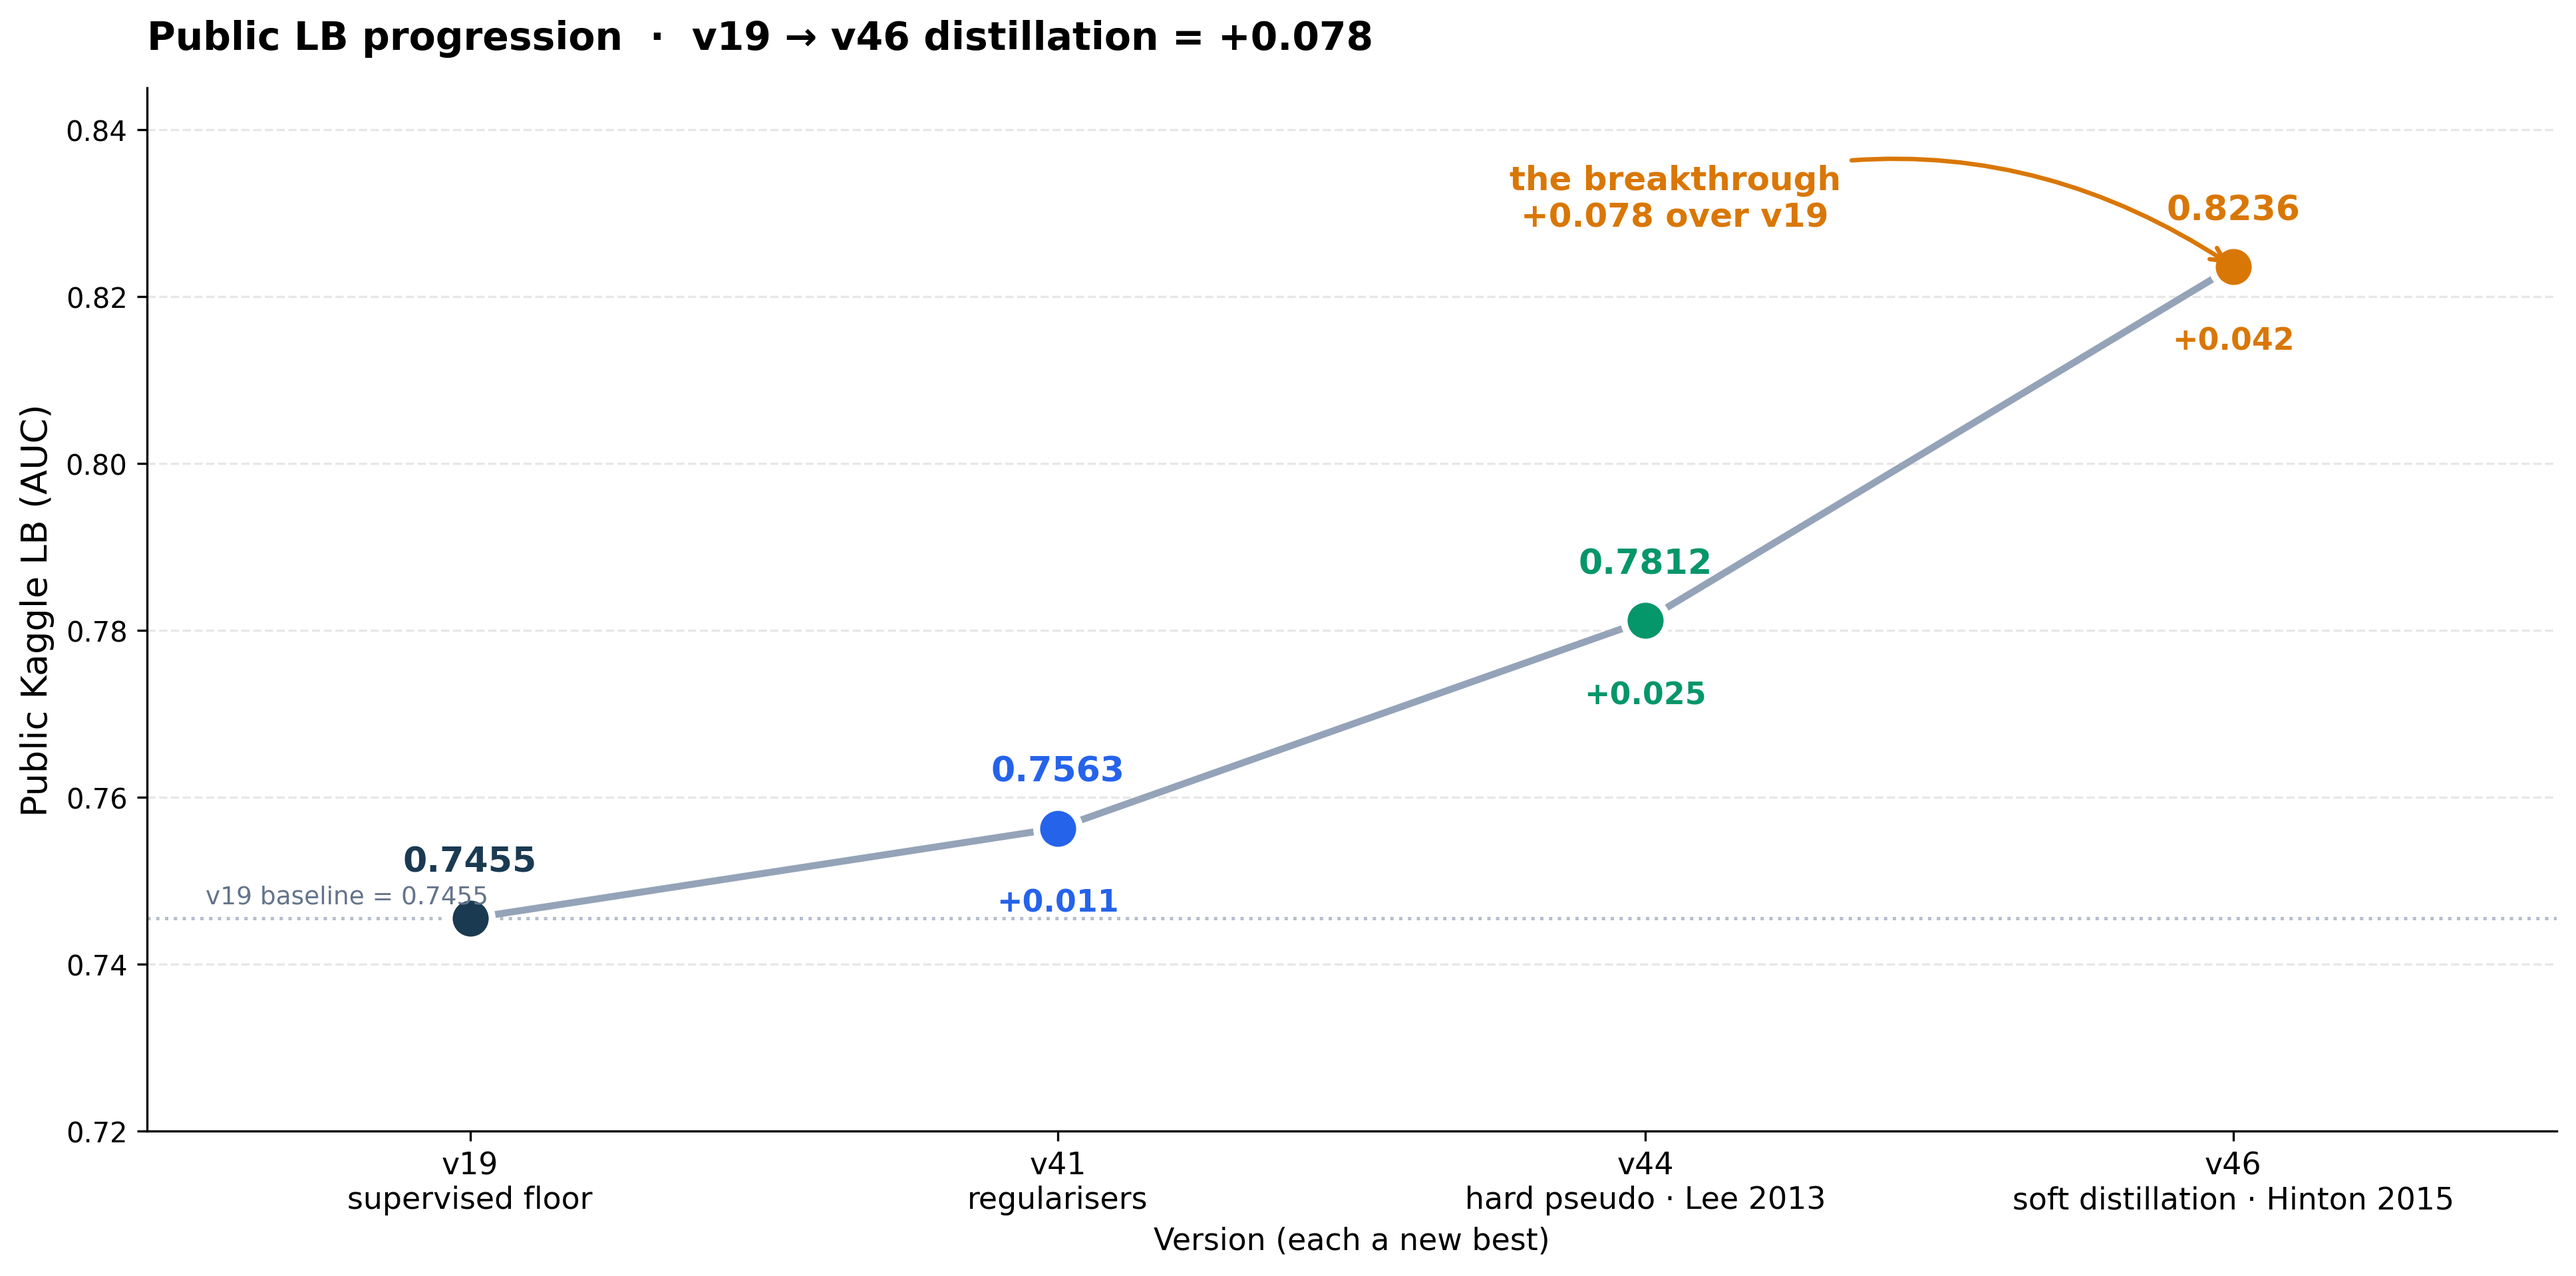
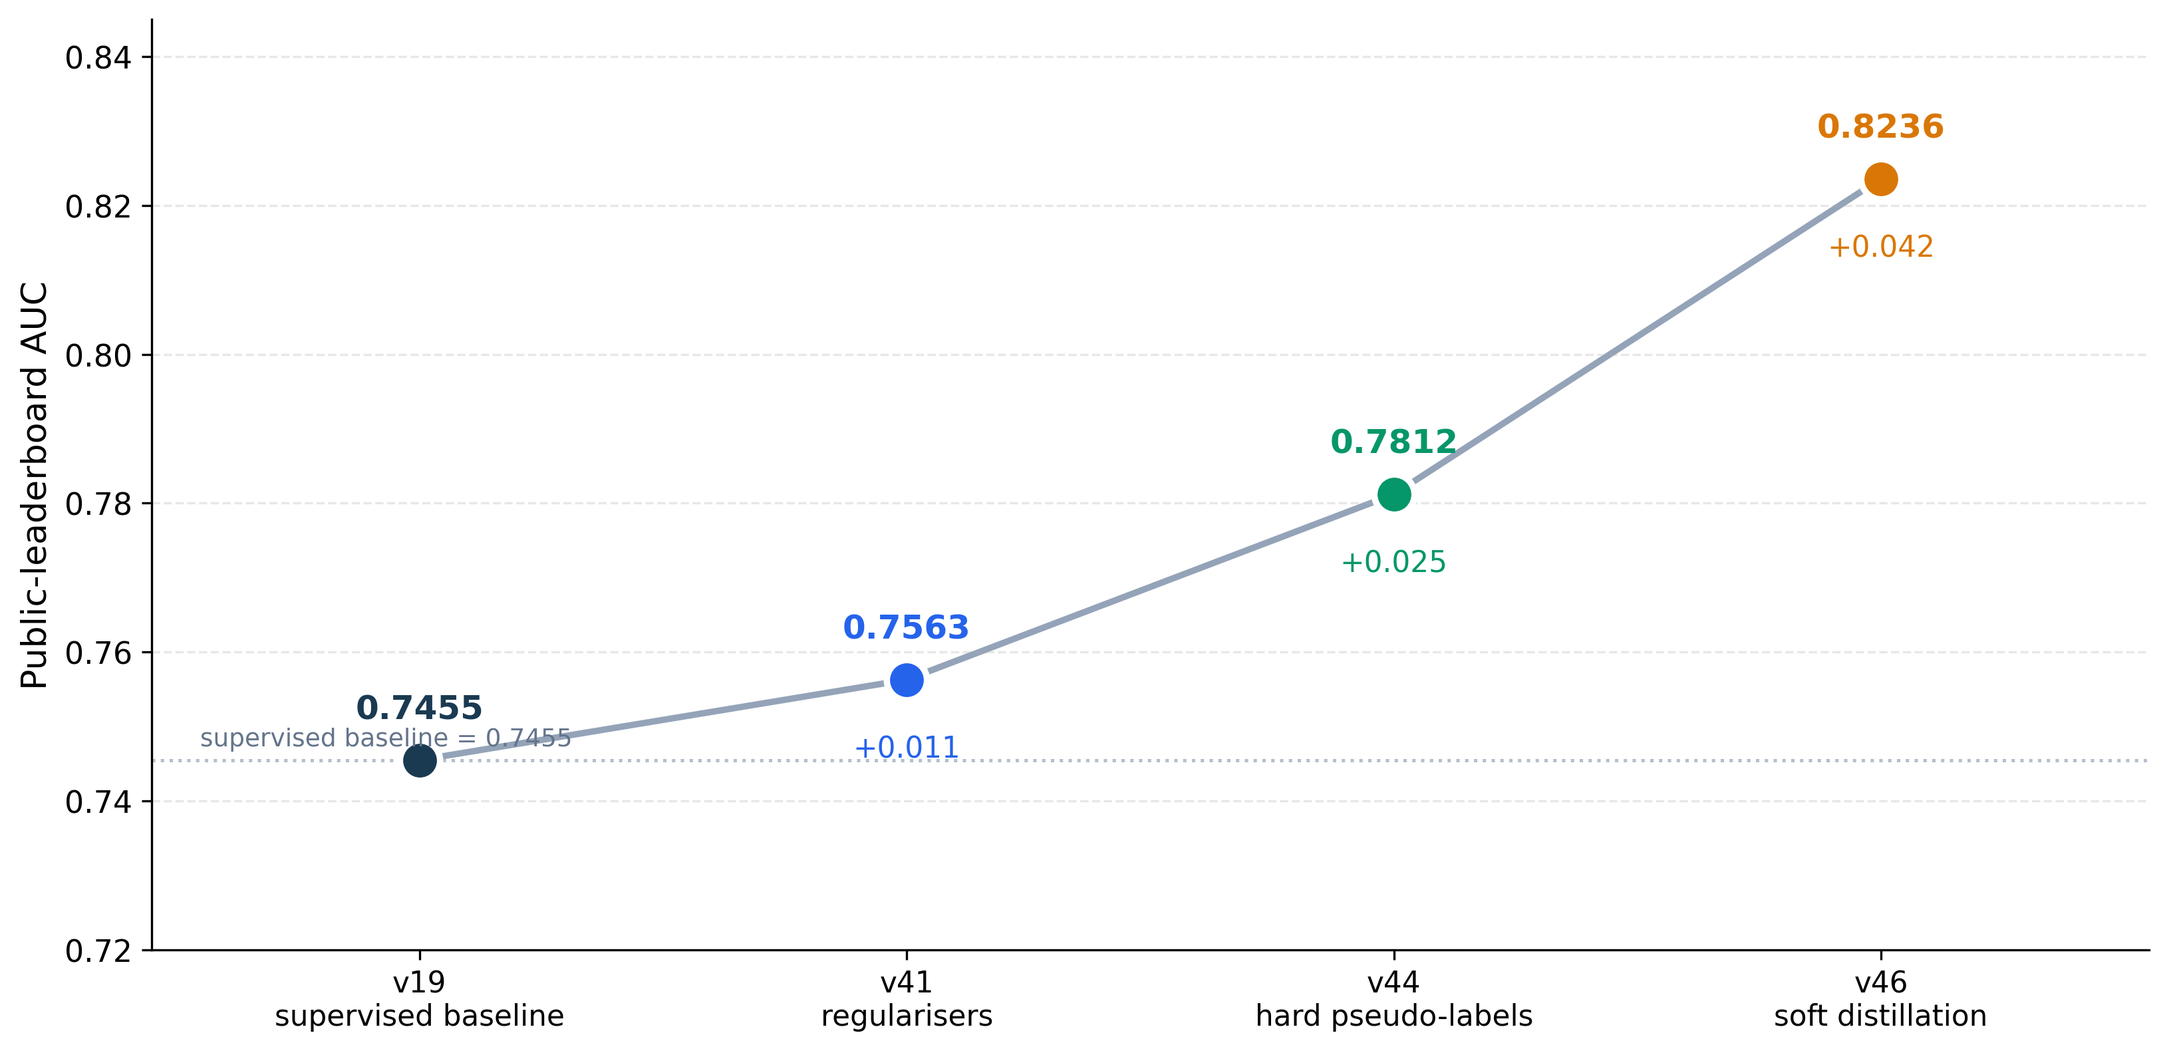
Expand methodology report: related work, experimental setup, limitations; cleaner figures and typography

diff --git a/overleaf-report/report.tex b/overleaf-report/report.tex
@@ -1,18 +1,37 @@
 \documentclass[11pt]{article}
 
+\usepackage[T1]{fontenc}
+\usepackage[utf8]{inputenc}
 \usepackage[margin=1in]{geometry}
 \usepackage{graphicx}
 \usepackage{booktabs}
 \usepackage{amsmath}
 \usepackage{amssymb}
+\usepackage{newtxtext}
+\usepackage{newtxmath}
+\usepackage{microtype}
 \usepackage{caption}
+\usepackage{titlesec}
 \usepackage{natbib}
 \usepackage{xcolor}
 \usepackage[hidelinks]{hyperref}
 
 \graphicspath{{figures/}}
-\captionsetup{font=small}
-\setlength{\parskip}{0.4em}
+\captionsetup{font=small,labelfont=bf,labelsep=period}
+\setlength{\parindent}{1.4em}
+
+% tighter, more journal-like section headings
+\titleformat{\section}{\normalfont\large\bfseries}{\thesection}{0.6em}{}
+\titleformat{\subsection}{\normalfont\normalsize\bfseries}{\thesubsection}{0.6em}{}
+\titlespacing*{\section}{0pt}{1.5ex plus .3ex minus .2ex}{0.9ex}
+\titlespacing*{\subsection}{0pt}{1.2ex plus .2ex}{0.6ex}
+
+% keep the bibliography compact so it does not strand a near-empty final page
+\setlength{\bibsep}{0.2ex plus 0.2ex}
+
+% tighten whitespace around floats for a more compact, journal-like vertical rhythm
+\setlength{\textfloatsep}{13pt plus 2pt minus 2pt}
+\setlength{\intextsep}{11pt plus 2pt minus 2pt}
 
 \title{\textbf{Multimodal Cancer-Cell Classification under Patient Shift:\\
 A Distillation-Based Recipe for Small-$N$ Microscopy}}
@@ -34,13 +53,17 @@ capacity or regularisation. Starting from a dual-branch EfficientNet-B0 with a s
 recipe (adaptive batch normalisation, test-set stain normalisation, a per-patient multiple-instance
 loss, and heavy paired augmentation), I grow the training signal by treating the unlabelled test
 images as extra supervision: first with hard pseudo-labels \citep{lee2013}, then with soft-target
-knowledge distillation \citep{hinton2015}. The soft variant (the teacher's raw probabilities on all
-$59{,}040$ test cells used as targets) raises the public-leaderboard AUC from $0.7455$ to
-$0.8236$, a $+0.078$ improvement that sits roughly four standard errors above the seed-to-seed noise
-floor. I also document what did \emph{not} work, namely cross-modal self-supervised pre-training,
+knowledge distillation \citep{hinton2015}. Across the full recipe the public-leaderboard AUC rises from
+$0.7455$ to $0.8236$ (a cumulative $+0.078$); the soft-distillation step alone --- the teacher's raw
+probabilities on all $59{,}040$ test cells used as targets --- contributes $+0.042$ of that, the largest
+single jump and roughly four standard errors above the seed-to-seed noise floor. I also document what
+did \emph{not} work, namely cross-modal self-supervised pre-training,
 same-domain architecture transfer, stacking unvalidated changes, and cross-recipe ensembling,
 because each failure diagnosed a property of the data that directly shaped the final recipe.
 \end{abstract}
+
+\noindent\textbf{Keywords:} semi-supervised learning; knowledge distillation; pseudo-labelling; domain
+shift; multimodal microscopy; test-time adaptation; small-sample learning.
 
 \section{Introduction}
 
@@ -59,6 +82,33 @@ that patient shortcut and to make the most of a small labelled set.
 
 This report presents the recipe that reached a public-leaderboard AUC of $0.8236$, the experiments that
 led there, and, equally important for the methodology, the diagnosed failures along the way.
+
+\section{Related work}
+
+The recipe combines established ideas rather than introducing a new architecture, so it is best
+understood through the lines of work it draws on.
+
+\textbf{Learning from unlabelled data.} When labels are scarce but inputs are plentiful, two classic
+strategies turn predictions into supervision. Pseudo-labelling \citep{lee2013} assigns hard labels to
+confident unlabelled examples and trains on them as ground truth. Knowledge distillation
+\citep{hinton2015}, building on earlier model compression \citep{bucila2006}, instead transfers a
+teacher's full output distribution to a student, so the soft target carries the teacher's uncertainty
+rather than a thresholded decision. I apply both to the unlabelled test images and find the soft variant
+decisively better, consistent with the view that the discarded probability mass is where the extra
+signal lives.
+
+\textbf{Adapting to distribution shift.} Because the test patients differ from the training patients, the
+train and test pixel statistics genuinely diverge. Adaptive batch normalisation \citep{li2016} addresses
+this without labels by recomputing batch-norm statistics on the target data --- a cheap form of test-time
+adaptation that I pair with test-set stain normalisation.
+
+\textbf{Stable training and efficient backbones.} Stochastic weight averaging \citep{izmailov2018}
+reduces run-to-run variance by averaging weights along the training trajectory, which matters when the
+small patient count makes single runs noisy. For the backbone I use EfficientNet-B0 \citep{tan2019};
+on twelve patients its small parameter count is an asset, since extra capacity mainly buys room to
+memorise patient identity. The contribution here is not any single component but the finding that, in a
+small-$N$ patient-shifted regime, enlarging the effective labelled set with soft distillation dominates
+the capacity and regularisation choices a larger-data setting would reward.
 
 \section{Data and problem setting}
 
@@ -119,7 +169,7 @@ seed noise nearly swamps (Section~\ref{sec:lessons}).
 
 \begin{figure}[t]
   \centering
-  \includegraphics[width=0.92\textwidth]{arch_diagram.png}
+  \includegraphics[width=0.88\textwidth]{arch_diagram.png}
   \caption{Dual-branch EfficientNet-B0. One branch per modality, late-concatenation fusion, and a small
   MLP head. AdaBN and test-set stain normalisation adapt the network to the unseen test patients;
   the per-patient MIL term and heavy paired augmentation regularise against the patient shortcut.}
@@ -155,7 +205,7 @@ project and the reported result.
   \includegraphics[width=0.8\textwidth]{teacher_prob_histogram.png}
   \caption{Distribution of teacher probabilities over the $59{,}040$ test cells. Hard pseudo-labelling
   keeps only the two tails (the confident $\sim\!16\%$); soft distillation keeps every cell, weighted by
-  the teacher's confidence. The grey centre mass, discarded by hard thresholding, is where the
+  the teacher's confidence. The large central mass, discarded by hard thresholding, is where the
   extra signal lives.}
   \label{fig:hist}
 \end{figure}
@@ -166,8 +216,24 @@ Two ingredients reduce run-to-run variance. \textbf{Stochastic weight averaging}
 \citep{izmailov2018} averages the weights over the last four epochs of each run, with a batch-norm
 refresh pass on the averaged model. And because seed variance is large on this dataset
 (Section~\ref{sec:lessons}), the reported submission is the \emph{mean of three seeds} rather than a
-single run: this variance-reduced ensemble edged each of its individual seeds, so the headline number is
-not a lucky draw.
+single run: the two seeds scored individually on the public leaderboard ($0.8157$ and $0.8229$) both
+fell below the three-seed mean of $0.8236$, so the headline number reflects variance reduction rather
+than a single lucky draw.
+
+\subsection{Experimental setup}
+
+All models use ImageNet-pretrained EfficientNet-B0 branches at $128\times128$ input, trained for $12$
+epochs with AdamW (learning rate $3\times10^{-4}$, weight decay $10^{-4}$) under a one-cycle schedule,
+batch size $128$ drawn from four patients per batch by a patient-balanced sampler. Regularisation is
+dropout $0.4$ and label smoothing $0.05$, and the per-patient MIL term is weighted $0.5$ against the
+cell-level loss. SWA averages the last four of the twelve epochs with a batch-norm refresh, and the
+reported submission is the mean of three seeds. Inference uses $40$-way test-time augmentation (five
+scales $\{96,112,128,144,160\}$ crossed with the eight dihedral flips and rotations), averaged in
+probability space. For distillation, the teacher's raw probability on each of the $59{,}040$ test cells
+is the soft binary-cross-entropy target, weighted $0.5$ relative to the real labels; the hard-pseudo
+variant instead keeps only cells with teacher probability below $0.05$ or above $0.95$. Brightfield
+inputs are normalised with training-set statistics (mean $0.504$, standard deviation $0.216$) and
+fluorescence inputs with test-set statistics, as above.
 
 \section{Results}
 
@@ -181,6 +247,7 @@ window.
 
 \begin{table}[t]
   \centering
+  \renewcommand{\arraystretch}{1.15}
   \caption{Public-leaderboard AUC by stage. Every gain traces to enlarging the effective training set,
   not to a larger network.}
   \label{tab:progression}
@@ -198,7 +265,7 @@ window.
 
 \begin{figure}[t]
   \centering
-  \includegraphics[width=0.92\textwidth]{lb_progression.png}
+  \includegraphics[width=0.86\textwidth]{lb_progression.png}
   \caption{Public-leaderboard progression. The two pseudo-label stages, not the network or the
   regularisers, account for the bulk of the $+0.078$ gain over the supervised baseline.}
   \label{fig:lb}
@@ -206,9 +273,10 @@ window.
 
 \begin{figure}[t]
   \centering
-  \includegraphics[width=\textwidth]{learning_curves.png}
-  \caption{Per-seed training curves for the final model (three seeds $\times$ losses / train AUC /
-  epoch time). The shaded band marks the SWA epochs over which weights are averaged.}
+  \includegraphics[width=0.95\textwidth]{learning_curves.png}
+  \caption{Training curves for the final model: total training loss (left) and train AUC (right), with
+  the three seeds shown individually (faint) and their mean (bold). The shaded band marks the SWA epochs
+  over which weights are averaged; train AUC converges to $\approx\!0.993$ across all three seeds.}
   \label{fig:curves}
 \end{figure}
 
@@ -218,8 +286,8 @@ The negative results were as informative as the wins; each one revealed somethin
 
 \subsection{Cross-modal self-supervised pre-training}
 
-I tried a cross-modal contrastive objective : pre-train the two
-branches to match a cell's BF and FL views (InfoNCE), then fine-tune for classification. It produced the
+I tried cross-modal contrastive pre-training: an InfoNCE objective that pulls a cell's paired BF and FL
+views together and pushes non-matching pairs apart, then fine-tuning for classification. It produced the
 \emph{best cross-validation score} of the whole project (AUC $\approx0.866$) and then \emph{collapsed} on
 the leaderboard to $\approx0.57$, essentially chance. The diagnosis is the patient shortcut: with one
 patient per cell, a cell's two views always share a patient while non-matching pairs usually do not, so
@@ -228,13 +296,13 @@ converged almost immediately, a tell-tale sign that it had found the shortcut. T
 why the final recipe is built to suppress patient identity (AdaBN, test-set normalisation, the MIL term,
 and excluding pseudo cells from the per-patient loss).
 
-\subsection{Transferring a same-domain architecture}
+\subsection{Alternative fusion and augmentation choices}
 
-A closely related multimodal-microscopy paper  advocates intermediate co-attention
-fusion of the two modalities. Inspired by that setting, I tested two variants here: modality-specific
+An alternative to late fusion is intermediate co-attention fusion of the two modalities, a design
+favoured in some multimodal-microscopy work. I tested two variants in that spirit: modality-specific
 fluorescence augmentation and an early (input-level) fusion alternative to my late-fusion design. Both
-\emph{regressed} on this dataset ($-0.036$ and $-0.031$ respectively). Techniques motivated by a different
-acquisition setup did not transfer to a $12$-patient, patient-disjoint regime, a reminder that reported
+\emph{regressed} on this dataset ($-0.036$ and $-0.031$ respectively). Design choices motivated by other
+acquisition setups did not transfer to a $12$-patient, patient-disjoint regime, a reminder that reported
 gains are conditional on their data.
 
 \subsection{Stacking unvalidated changes}
@@ -271,16 +339,33 @@ final submission.
         multi-change jump.
 \end{enumerate}
 
+\section{Limitations}
+
+Two caveats bound the headline number. First, the method is \emph{transductive}: although the test
+\emph{labels} are never used, the test \emph{inputs} are consumed in three places --- AdaBN, test-set
+stain normalisation, and distillation on the teacher's predictions over the full test set --- so
+$0.8236$ measures performance on inputs the model was explicitly adapted to, and inductive
+generalisation to a fresh patient cohort is untested. Second, every AUC reported here is on the
+\emph{public} leaderboard split, which was also used for model selection across many submissions; the
+public numbers are therefore an optimistic estimate of held-out performance, and the private split, not
+reported here, is the unbiased measure.
+
 \section{Conclusion}
 
 On a $12$-patient, patient-disjoint microscopy task, the most effective strategy was not a bigger or more
 exotic network but a small, shift-aware EfficientNet-B0 whose \emph{effective} training set was enlarged
 with the test images via soft-target distillation. This lifted the public-leaderboard AUC from $0.7455$
-to $0.8236$ ($+0.078$, $\sim\!4\sigma$ above the seed noise). The approaches that failed, namely cross-modal
+to $0.8236$, a cumulative $+0.078$; the soft-distillation step alone contributed the largest single gain
+($+0.042$, roughly four standard errors above the seed noise). The approaches that failed, namely cross-modal
 self-supervision, same-domain transfer, stacked edits, and cross-recipe ensembling, shaped the final
 recipe more than any single success.
 
-\bibliographystyle{plainnat}
+\paragraph{Data and code availability.} The dataset is the \emph{Multimodal Cancer-Cell Classification
+Challenge 2026} Kaggle competition and is not redistributed here. The training notebooks and the code
+that generates every figure in this report are available at
+\url{https://github.com/rafallex/multimodal-microscopy-distillation}.
+
+\bibliographystyle{abbrvnat}
 \bibliography{references}
 
 \end{document}
